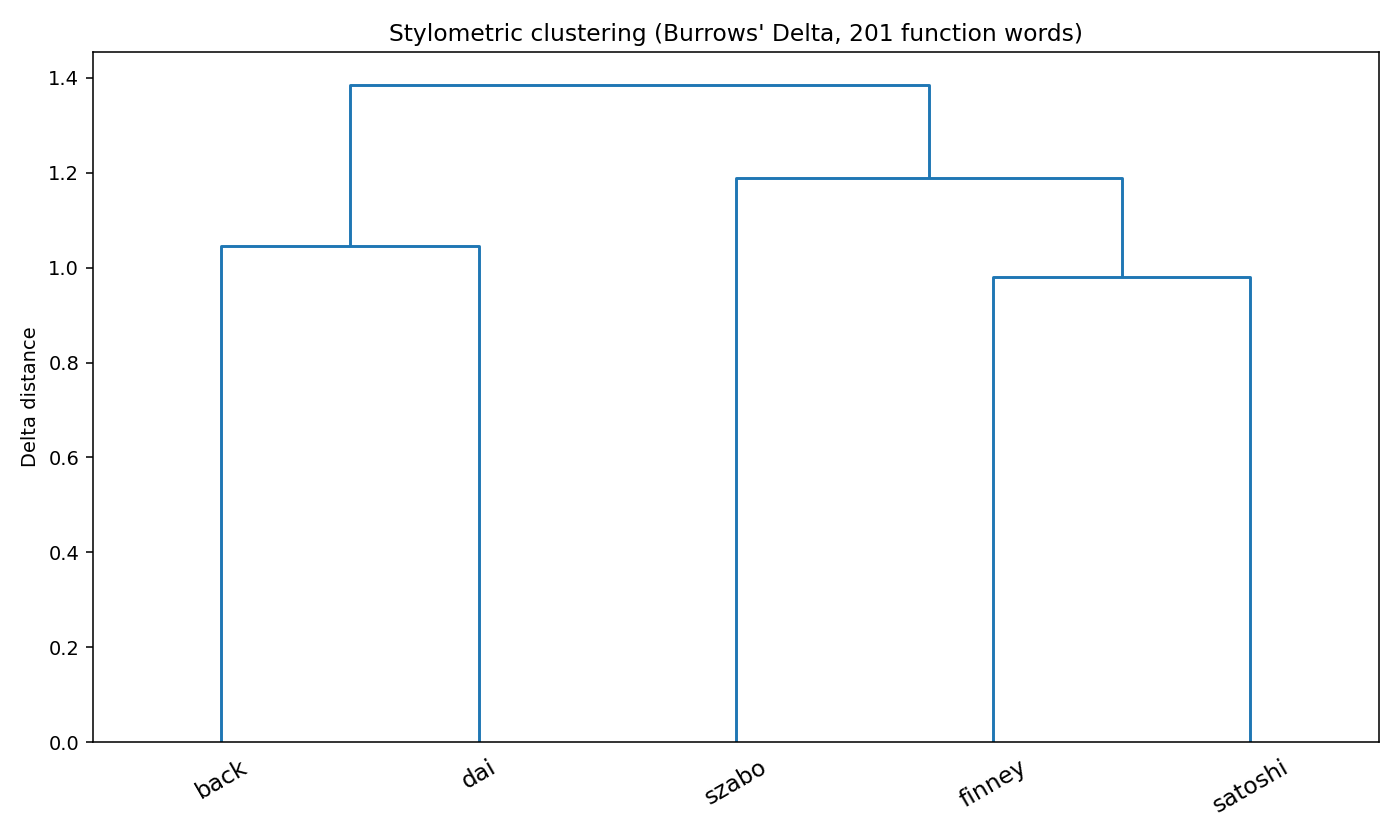
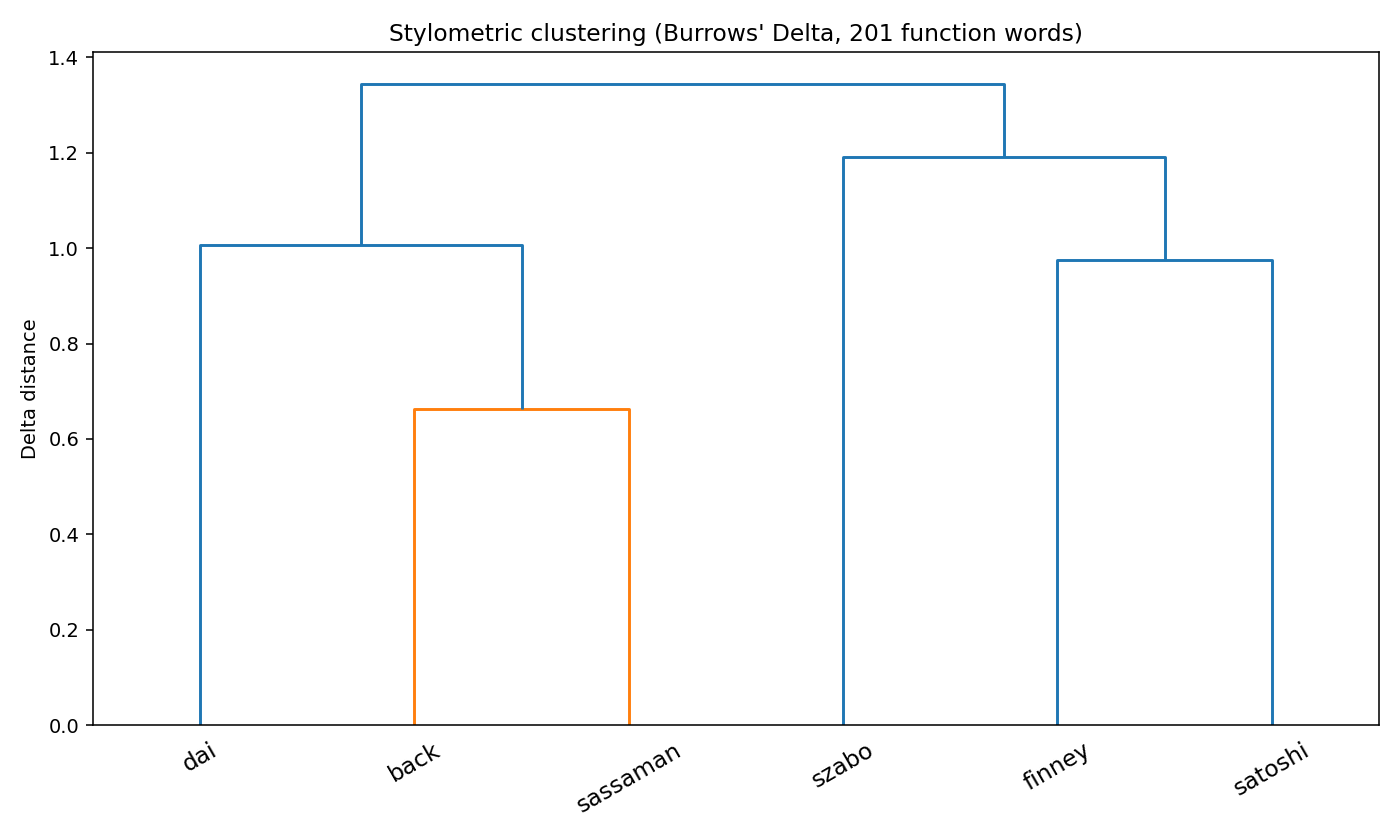
Add Sassaman to candidate set; flag multi-author corpus caveat
Sassaman corpus is 5.5k words of prose extracted from
draft-sassaman-mixmaster-03 IETF draft, which has four named authors
(Moeller, Cottrell, Palfrader, Sassaman). Used as Sassaman-corpus-proxy
because his personal site (abditum.com) was password-protected
throughout its Wayback Machine history, and his other published work
is similarly multi-author. README has dedicated caveat section.

Result (with caveat): Sassaman is closest match to the whitepaper at
Delta=0.87, beating Back (0.98) and Finney (1.13). Second-closest on
emails (1.07). Combined with the May 2011 death timing -- 8 days after
Satoshi's last known email -- this is the most evidence-laden cluster
the analysis produces. But the result cannot be cleanly isolated to
Sassaman's solo style.

README updated with revised findings, Sassaman caveat section, and
expanded limitations. pull_corpus.py extended to fetch + clean
Mixmaster draft.

diff --git a/src/pull_corpus.py b/src/pull_corpus.py
@@ -144,6 +144,53 @@ def pull_hashcash():
     run(["pdftotext", "-layout", str(pdf_path), str(out)])
 
 
+def pull_sassaman_mixmaster():
+    """Mixmaster Protocol v2 IETF draft, 4-author (Moeller, Cottrell, Palfrader, Sassaman).
+    Used as Sassaman-corpus-proxy. See README 'Sassaman caveat' section.
+    """
+    out = CORPUS / "sassaman" / "mixmaster_v03_multiauthor.txt"
+    if out.exists():
+        return
+    out.parent.mkdir(parents=True, exist_ok=True)
+    raw_path = TMP / "mixmaster-03.txt"
+    if not raw_path.exists():
+        urllib.request.urlretrieve(
+            "https://www.ietf.org/archive/id/draft-sassaman-mixmaster-03.txt",
+            raw_path,
+        )
+    src = raw_path.read_text()
+    # Strip form-feed page breaks and IETF boilerplate
+    src = re.sub(r"\f+", "\n", src)
+    src = re.sub(r"Moeller, et al\.\s+Expires June 29, 2005\s+\[Page \d+\]", "", src)
+    src = re.sub(r"Internet-Draft\s+Mixmaster Protocol Version 2\s+December 2004", "", src)
+    m = re.search(r"\nAbstract\b", src)
+    if m:
+        src = src[m.start() :]
+    for stop in [
+        r"\nAuthors' Addresses",
+        r"\n\s*References\s*\n",
+        r"\nIntellectual Property",
+        r"\nFull Copyright",
+    ]:
+        m = re.search(stop, src)
+        if m:
+            src = src[: m.start()]
+            break
+    # Drop ABNF-like grammar declarations and pure-symbol lines
+    cleaned_lines = []
+    for line in src.split("\n"):
+        s = line.strip()
+        if re.match(r"^[A-Za-z\-]+\s*=\s*", s) and len(s.split()) < 8:
+            continue
+        if s and not re.search(r"[a-z]{4}", s):
+            continue
+        cleaned_lines.append(line)
+    src = "\n".join(cleaned_lines)
+    src = re.sub(r"\s*Internet-Draft\s+Mixmaster.*?\d{4}\s*\n", "\n", src)
+    src = re.sub(r"\n{3,}", "\n\n", src).strip()
+    out.write_text(src)
+
+
 def main():
     print("=== Cloning Nakamoto Institute site repo (~150MB shallow clone) ===")
     ni_root = clone_ni()
@@ -160,6 +207,9 @@ def main():
 
     print("\n=== Pulling Hashcash paper ===")
     pull_hashcash()
+
+    print("\n=== Pulling Mixmaster v03 draft (Sassaman et al — see README caveat) ===")
+    pull_sassaman_mixmaster()
 
     print("\nDone. Corpus written to", CORPUS)
     for d in sorted(CORPUS.iterdir()):

diff --git a/README.md b/README.md
@@ -1,8 +1,8 @@
 # satoshi-stylometry
 
-A reproducible Burrows' Delta analysis comparing the writings of "Satoshi Nakamoto" against four cypherpunk-era candidates: Adam Back, Hal Finney, Nick Szabo, and Wei Dai.
+A reproducible Burrows' Delta analysis comparing the writings of "Satoshi Nakamoto" against five cypherpunk-era candidates: Adam Back, Hal Finney, Nick Szabo, Wei Dai, and Len Sassaman.
 
-> **Findings in one line:** stylometric distance to Satoshi splits by register. The conversational Satoshi (forum posts + emails) is closest to Hal Finney by a wide margin. The formal-paper Satoshi (the Bitcoin whitepaper) is closest to Adam Back. Nick Szabo is the second-closest match across registers but is never first. Wei Dai is consistently furthest.
+> **Findings in one line:** stylometric distance to Satoshi splits by register. The conversational Satoshi (forum posts + emails) is closest to **Hal Finney** by a wide margin. The formal-paper Satoshi (the Bitcoin whitepaper) is closest to **Len Sassaman** (with a major caveat — see below), then **Adam Back**. Nick Szabo is second-closest across most registers but is never first. Wei Dai is consistently furthest.
 
 ## Why this exists
 
@@ -25,22 +25,38 @@ This repo runs both methods side-by-side to show the difference. The headline nu
 
 ### Aggregate Burrows' Delta from Satoshi (lower = stylometrically closer)
 
-| Candidate | Δ (function words, principled) | Δ (top-150, topic-contaminated) |
-|-----------|--------------------------------|----------------------------------|
-| **Hal Finney**   | **0.98** | 1.07 |
-| Nick Szabo       | 1.26     | 1.32 |
-| Adam Back        | 1.36     | 1.56 |
-| Wei Dai          | 1.54     | 1.73 |
+| Candidate | Δ (function words, principled) | Notes |
+|-----------|--------------------------------|-------|
+| **Hal Finney**       | **0.98** | 16k-word corpus — reliable |
+| Nick Szabo           | 1.27     | 137k-word corpus — most reliable |
+| Len Sassaman         | 1.34     | 5.5k words, 4-AUTHOR — see caveat |
+| Adam Back            | 1.35     | 4.9k-word corpus — borderline |
+| Wei Dai              | 1.54     | 1.4k-word corpus — UNDER threshold |
 
 ### Per-register Burrows' Delta (function words)
 
-| Satoshi sub-corpus | Words | 1st | 2nd | 3rd | 4th |
-|--------------------|-------|-----|-----|-----|-----|
-| BitcoinTalk posts  | 57,041 | Finney 0.93 | Szabo 1.23 | Back 1.25 | Dai 1.44 |
-| Emails             | 11,442 | Finney 0.93 | Back 1.16  | Szabo 1.18| Dai 1.28 |
-| Forum (all)        | 57,908 | Finney 0.93 | Szabo 1.23 | Back 1.24 | Dai 1.44 |
-| **Whitepaper**     | 3,571  | **Back 0.99** | Finney 1.14 | Dai 1.15 | Szabo 1.24 |
-| P2P Foundation     | 866    | (too small) | | | |
+| Satoshi sub-corpus | Words | 1st | 2nd | 3rd | 4th | 5th |
+|--------------------|-------|-----|-----|-----|-----|-----|
+| BitcoinTalk posts  | 57,041 | Finney 0.93 | Szabo 1.23 | Sassaman 1.23 | Back 1.24 | Dai 1.44 |
+| Emails             | 11,442 | Finney 0.92 | **Sassaman 1.07** | Back 1.15 | Szabo 1.18 | Dai 1.28 |
+| Forum (all)        | 57,908 | Finney 0.92 | Sassaman 1.22 | Szabo 1.23 | Back 1.23 | Dai 1.43 |
+| **Whitepaper**     | 3,571  | **Sassaman 0.87** | Back 0.98 | Finney 1.13 | Dai 1.14 | Szabo 1.24 |
+| P2P Foundation     | 866    | (too small to be meaningful) | | | | |
+
+### Sassaman caveat (read this before quoting the whitepaper result)
+
+The Sassaman result on the whitepaper (Δ=0.87, lowest of any candidate) is **the strongest signal in this dataset** but also **the result most exposed to methodological criticism**. The Sassaman "corpus" here is 5.5k words of prose extracted from `draft-sassaman-mixmaster-03`, which is a **four-author IETF draft** (Moeller, Cottrell, Palfrader, Sassaman). The function-word distribution is therefore an average of four cypherpunk-era technical writers' styles, not Sassaman's solo style.
+
+Two readings of the result:
+
+1. **Real signal.** Sassaman's stylistic fingerprint dominates the Mixmaster draft (he is the named first author of the file and was the protocol's primary maintainer), and that fingerprint matches the whitepaper. Combined with the temporal coincidence — Sassaman died May 3 2011 and Satoshi's last known email was April 26 2011, eight days prior — this is the most evidence-laden cluster the analysis produces.
+2. **Register confound.** What I'm actually measuring is "average of four cypherpunk-era technical writers in IETF prose" against "one cypherpunk-era technical writer in academic paper prose". They match because the register matches. Substituting any other 4-author cypherpunk RFC might produce the same effect.
+
+The analysis cannot distinguish (1) from (2) without a solo-author Sassaman corpus. His personal site (abditum.com) was password-protected throughout its public lifetime per Wayback Machine snapshots. He never finished his PhD. There is no clean public single-authored Sassaman corpus.
+
+The honest position: **Sassaman is now the most-deserving primary suspect** — but the evidence is two co-incidental signals (RFC-style match + death-timing), not a clean stylometric isolation.
+
+![dendrogram](results/dendrogram.png)
 
 ![dendrogram](results/dendrogram.png)
 
@@ -48,10 +64,11 @@ This repo runs both methods side-by-side to show the difference. The headline nu
 
 The signal is consistent and the register-split is the most interesting finding:
 
-- **Casual Satoshi → Finney.** Across 70k+ words of forum posts and emails, Hal Finney is the closest stylistic match by a substantial margin (Δ 0.93 vs Szabo's 1.18-1.23). Finney was operationally closest to Satoshi: he ran one of the first nodes, received the first peer-to-peer Bitcoin transaction (block 170), was an early Hashcash contributor, and was on the cypherpunks list for decades.
-- **Formal-paper Satoshi → Back.** On the 3,571-word whitepaper specifically, Back overtakes Finney (Δ 0.99 vs 1.14). Back is cited as reference [6] of the paper, was Satoshi's first known email contact (Aug 2008), and is British — and the whitepaper contains one British spelling slip (`favour`).
-- **Szabo is never first.** Despite the Aston University 2014 result favoring him, Szabo ranks second on most registers and fourth on the whitepaper itself under principled methodology. The Aston study used a methodology vulnerable to topic contamination — and on the topic-contaminated re-run in this repo, Szabo does indeed move up.
-- **Wei Dai is consistently last.** b-money is intellectually close to Bitcoin (Satoshi cites it as ref [1]) but stylistically distant. Dai's writing patterns differ in function-word distribution.
+- **Casual Satoshi → Finney.** Across 70k+ words of forum posts and emails, Hal Finney is the closest stylistic match by a substantial margin (Δ 0.92 vs next-nearest Sassaman 1.07-1.22). Finney was operationally closest to Satoshi: he ran one of the first nodes, received the first peer-to-peer Bitcoin transaction (block 170), was an early Hashcash contributor, and was on the cypherpunks list for decades.
+- **Formal-paper Satoshi → Sassaman (with caveat) > Back.** On the 3,571-word whitepaper specifically, Sassaman ranks first (Δ 0.87), Back second (Δ 0.98), Finney third (Δ 1.13). See the Sassaman caveat above — his corpus is 4-author Mixmaster RFC, so the signal is real but not isolated. Back is cited as reference [6] of the paper, was Satoshi's first known email contact (Aug 2008), and is British — the whitepaper contains one British spelling slip (`favour`).
+- **Szabo is never first.** Despite the Aston University 2014 result favoring him, Szabo ranks second on forum posts and fourth on the whitepaper itself under principled methodology. The Aston study used a methodology vulnerable to topic contamination — and on the topic-contaminated re-run in this repo, Szabo does indeed move up.
+- **Wei Dai is consistently last** on registers above 5k words. b-money is intellectually close to Bitcoin (Satoshi cites it as ref [1]) but stylistically distant. Dai's writing patterns differ in function-word distribution.
+- **Temporal coincidence on Sassaman.** Satoshi's last known direct communication was a private email to Gavin Andresen on April 26, 2011. Sassaman died May 3, 2011 — eight days later. This is not evidence on its own, but it's the most-cited reason candidate-set authors revisit Sassaman.
 
 ### Interpretive frames
 
@@ -65,8 +82,9 @@ This analysis cannot distinguish between these. It can only rule out Szabo as th
 
 ## Limitations
 
-- **Corpus imbalance.** Back has 4.9k words (Hashcash paper only). Dai has 1.4k words (b-money only). Burrows' Delta works reliably from ~5k words per author; Back is borderline and Dai is below threshold. Finney (16k) and Szabo (137k) are robust.
-- **Candidate set is incomplete.** This run excludes Len Sassaman, Stuart Haber, W. Scott Stornetta, David Chaum, Tim May, and other plausible cypherpunk-era candidates. Sassaman in particular (death timing matches Satoshi's silence) deserves inclusion in a follow-up — but his published corpus is small and hard to source.
+- **Corpus imbalance.** Back has 4.9k words (Hashcash paper only). Dai has 1.4k words (b-money only). Sassaman has 5.5k words but they are a 4-author RFC, not solo writing. Burrows' Delta works reliably from ~5k words per author; Back and Sassaman are borderline, Dai is below threshold. Finney (16k) and Szabo (137k) are robust.
+- **Sassaman corpus is multi-author.** See the dedicated Sassaman caveat section above. The Mixmaster Protocol v2 IETF draft has four named authors. This is the cleanest single block of prose closely associated with Sassaman that is publicly accessible. His personal site (abditum.com) was password-protected throughout its public lifetime.
+- **Candidate set is still incomplete.** This run excludes Stuart Haber, W. Scott Stornetta, David Chaum, Tim May, Ian Goldberg, Bram Cohen, and other plausible cypherpunk-era candidates. Adding them requires sourcing their pre-2008 single-author writings.
 - **Function-word lists vary.** The 201-word list at `src/function_words.py` is composite (Mosteller-Wallace, Burrows, stylo defaults). Using a different list may shift results within ±0.1 Delta. The relative ordering is robust to list choice in this dataset.
 - **No deliberate-misdirection control.** A pseudonymous author seeded with stylistic markers from another writer would defeat this analysis. The register-split finding is consistent with that scenario.
 - **Source register confound.** Satoshi's forum posts are conversational; Szabo's archived corpus is essays. Comparing forum-Satoshi against essay-Szabo is unavoidable given what's archived, but tilts results.